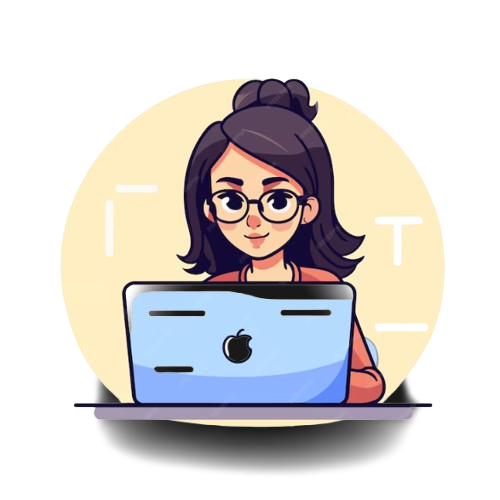
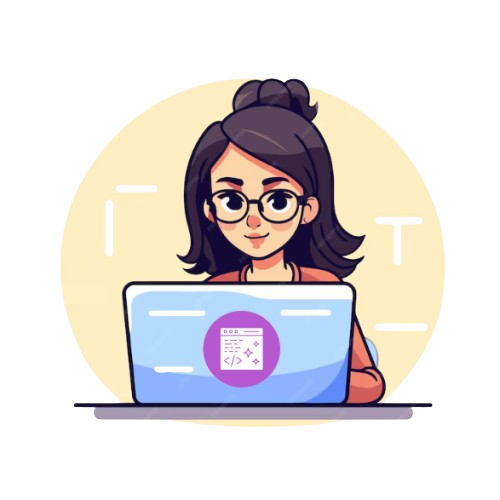
finalizacion

Changed region(s): [[0.18, 0.75, 0.84, 0.96], [0.24, 0.57, 0.72, 0.78], [0.18, 0.75, 0.24, 0.81]]

diff --git a/index.html b/index.html
@@ -13,7 +13,9 @@
     <link rel="preconnect" href="https://fonts.googleapis.com">
 <link rel="preconnect" href="https://fonts.gstatic.com" crossorigin>
 <link href="https://fonts.googleapis.com/css2?family=Bagel+Fat+One&family=Bree+Serif&display=swap" rel="stylesheet">
-
+<link rel="preconnect" href="https://fonts.googleapis.com">
+<link rel="preconnect" href="https://fonts.gstatic.com" crossorigin>
+<link href="https://fonts.googleapis.com/css2?family=Bagel+Fat+One&family=Bree+Serif&family=DM+Sans:ital,opsz,wght@0,9..40,100..1000;1,9..40,100..1000&display=swap" rel="stylesheet">
     <title>Gabr!ela | Desarrollo Web</title>
 </head>
 
@@ -30,7 +32,7 @@
                     </a>
                     <ul class="navbar-nav d-flex justify-content-center align-items-center">
                         <li class="nav-item">
-                            <a id="active" class="nav-link active" aria-current="page" href="/index.html">Home</a>
+                            <a id="active" class="nav-link" aria-current="page" href="/index.html">Home</a>
                         </li>
                         <li class="nav-item">
                             <a class="nav-link" href="#proyectos">Proyectos</a>
@@ -52,8 +54,8 @@
         <div class="hero-principal d-flex flex-column justify-content-center align-items-center">
             <img class="hero-imagen-desarrollador " src="/assets/images/chicapc.png" alt="foto-chica">
             <h1>Hola!, soy Gabriela</h1>
-            <h2>Desarrolladora Web. </h2>
-        </div>
+            <h2>Desarrolladora Web. </h2><br>
+        </div><br>
         <div class="hero-inferior">
             <img class="hero-inferior-imagen img-fluid" src="/assets/images/htmlimg.png" alt="html">
             <img class="hero-inferior-imagen img-fluid" src="/assets/images/cssimag.png" alt="css">
@@ -110,16 +112,16 @@
         <div class="contenedor">
             <h2 class="seccion-titulo">Sobre mí</h2>
             <p class="seccion-texto">
-                Programadora formandome como Tecnica Universitaria en Desarrollo Web en la Universidad Nacional de Entre Rios. Busco siempre trabajar en equipo cooperando con todos y brindando apoyo de la mejor manera posible, recibiendo de manera positiva feedbacks para así trabajar con mentorías que me ayuden a crecer profesionalmente. 
+                Hola! soy Gabriela Programadora formándome como Técnica Universitaria en Desarrollo Web en la Universidad Nacional de Entre Ríos. Busco siempre trabajar en equipo cooperando con todos y brindando apoyo de la mejor manera posible, recibiendo de manera positiva feedbacks para así trabajar con mentorías que me ayuden a crecer profesionalmente. 
 
             </p>
         </div>
     </section>
 
     <!--Contacto-->
-    <section id="contacto" class="contacto d-flex flex-column">
-        <div class="card text-center">
-            <div class="card-body">
+    <section id="contacto" class="contacto d-flex">
+        <div class="contenedor">
+            <div class="d-flex flex-column">
                 <h3 class="titulo-card">Let's get in touch</h3>
                 <p class="texto-card">Contactame para iniciar tu proyecto y lo haremos real.</p>
                 <a href="mailto:gabrielasan07@gmail.com" class="button">
@@ -131,9 +133,23 @@
         </div>
     </section>
 
-
-
-    <footer>©2025 - Site design and develop by Gabr!ela.</footer>
+<!--Pie de pagina-->
+    <footer class="d-flex flex-column align-items-center justify-content-center">
+        <img class="footer-logo" src="/assets/images/code.png" alt="code">
+        <p class="footer-texto text-center">Contáctame por mis redes sociales.</p>
+        <div class="iconos-redes-sociales d-flex flex-wrap align-items-center justify-content-center">
+            <a href="linkedin.com/in/gabrielamsanchez23" target="_blank" rel="noopener noreferrer">
+            <i class="bi bi-linkedin"></i>
+            </a>
+            <a href="https://github.com/gabrielamsanchez" target="_blank" rel="noopener noreferrer">
+            <i class="bi bi-github"></i>
+            </a>
+            <a href="mailto:gabrielasan07@gmail.com" target="_blank" rel="noopener noreferrer">
+                <i class="bi bi-envelope-at-fill"></i>
+            </a>
+        </div>
+        <p class="text-center">&#169 2025 - Site design and develop by Gabr!ela.</p>
+    </footer>
     
 
 

diff --git a/style.css b/style.css
@@ -1,11 +1,8 @@
 body{
-    font-family:'Lucida Sans', 'Lucida Sans Regular', 'Lucida Grande', 'Lucida Sans Unicode', Geneva, Verdana, sans-serif;
+    font-family: "DM Sans", serif;
     background: linear-gradient(101deg, #927DDB -28.86%, #EF98D4 101.36%);
     padding: 0;
     margin: 0;
-    display: grid;
-    min-height: 100vh;
-    grid-template-rows: auto 1fr auto;
 }
 
 .navbar{
@@ -94,11 +91,12 @@ h1{
 }
 
 .sobre-mi .contenedor{
-    max-width: 600px;
+    max-width: 500px;
     text-align: center;
     margin: 10px;
     padding: 10px;
 }
+
 .seccion-titulo{
     margin: 10px;
     padding: 10px;
@@ -145,6 +143,7 @@ h1{
     text-align: center;
 
 }
+
 .overlay p{
     font-family: "Bagel Fat One", serif;
     font-size: 20px;
@@ -181,13 +180,17 @@ h1{
 
 /*Contacto*/
 
-.card{
+.contacto .contenedor{
     background-color: white;
     border: 2px solid #EF98D4;
     border-radius: 20px;
-    height: 200px;
-    width: 600px;
+    max-width: 600px;
+    text-align: center;
+    margin: 20px;
+    padding: 40px;
 }
+
+
 .titulo-card{
     font-family: "Bagel Fat One", serif;
     font-weight: bold;
@@ -195,9 +198,10 @@ h1{
     margin: 10px;
     padding: 10px;
 }
+
 .contacto button{
     color: rgb(255, 255, 255);
-    font-family: Verdana, Geneva, Tahoma, sans-serif;
+    font-family: "DM Sans", serif;
     font-size: medium;
     background: linear-gradient(101deg, #927DDB -28.86%, #EF98D4 101.36%);
     width: 150px;
@@ -221,14 +225,58 @@ h1{
     font-size: 20px;
 }
 
+/*pie de pagina*/
 
 footer{
-    background-color: rgb(31, 27, 27);
+    min-height: 200px;
+    background:  rgb(31, 27, 27);
     color: rgb(253, 253, 253);
-    padding: 15px;
-    text-align: center;
-    margin-top: auto;
 }
+
+
+.footer-logo{
+    height: 65px;
+    width: 65px;
+    margin: 10px;
+    
+}
+
+.footer-texto{
+    font-size: 1rem;
+    padding: 10px;
+    margin: 0;
+}
+
+footer p{
+    font-size: 12px;
+    padding: 10px;
+    margin: 0;
+}
+
+.iconos-redes-sociales a{
+    width: 50px;
+    height: 50px;
+    display: flex;
+    align-items: center;
+    justify-content: center;
+    padding: 2px;
+    margin: 0;
+    transition: all 0.2s ease-in;
+
+}
+
+.iconos-redes-sociales i{
+    color: white;
+    font-size: 1.5rem;
+    transition: all 0.2s ease-in;
+}
+
+.iconos-redes-sociales a:hover i{
+    color: darkorchid;
+}
+
+
+
 
 /*Adaptable responsive*/
 @media screen and (max-width: 767px) {
